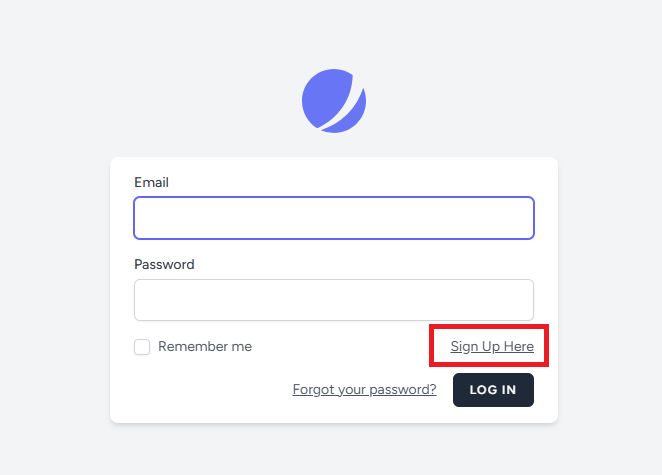
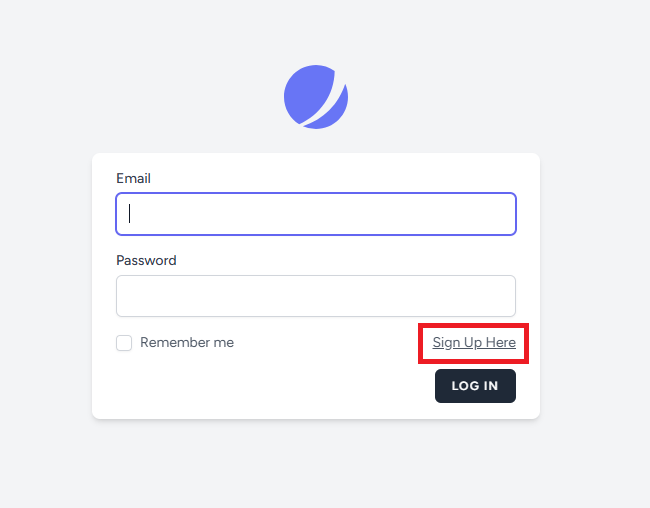
update
- disabled reset password

diff --git a/config/fortify.php b/config/fortify.php
@@ -145,7 +145,7 @@ return [
 
     'features' => [
         Features::registration(),
-        Features::resetPasswords(),
+        // Features::resetPasswords(),
         // Features::emailVerification(),
         Features::updateProfileInformation(),
         Features::updatePasswords(),
